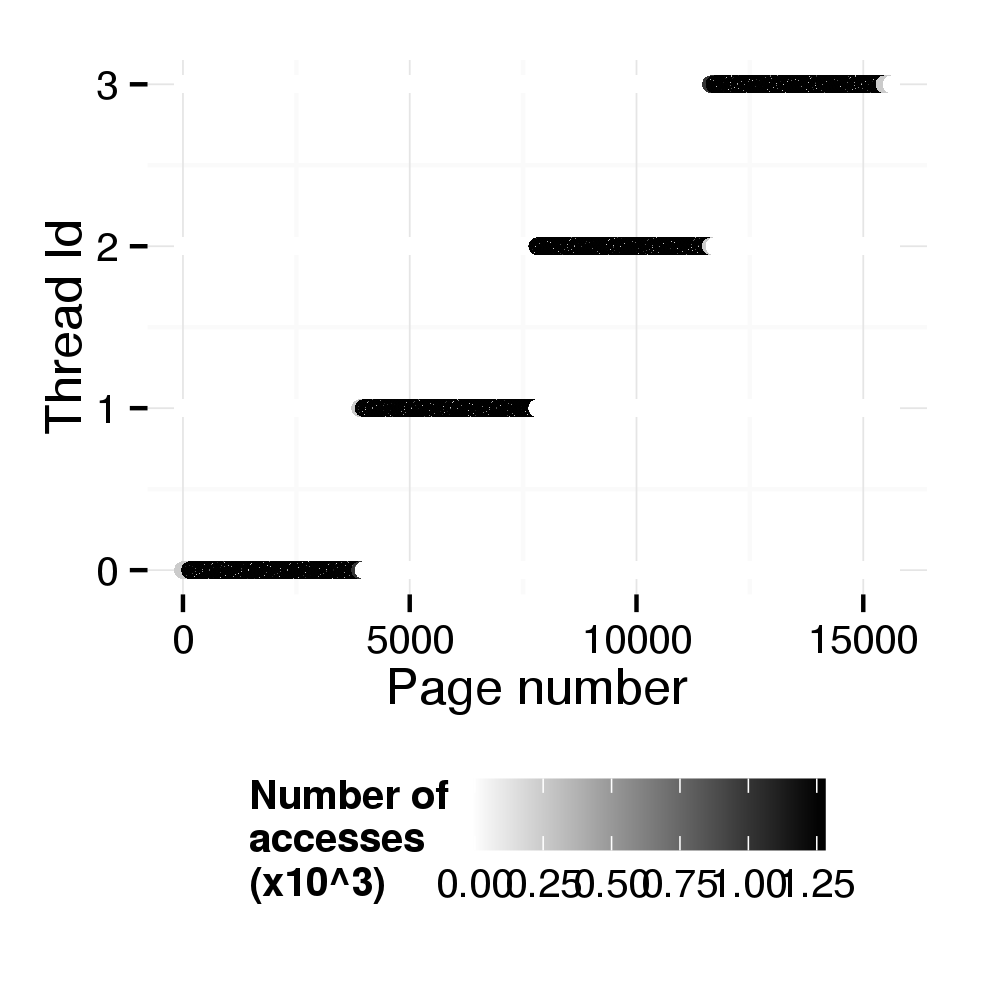
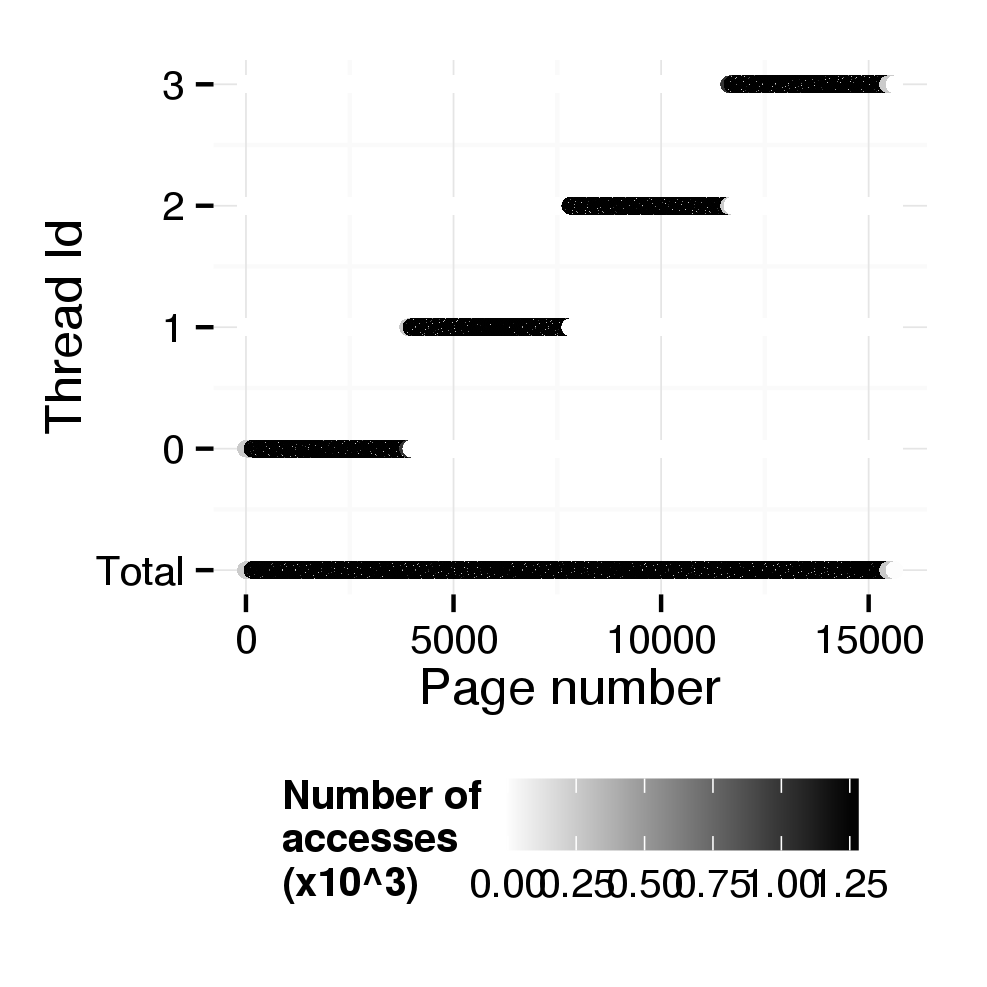
Updated figures

diff --git a/tex/design.tex b/tex/design.tex
@@ -123,10 +123,11 @@ duplicated, such that each NUMA node works on a local copy.
 The second series of plots is the most important one. For each structures, it
 shows the density of access done by each thread over the structure and the
 global distribution. As we can see in Figure~\ref{fig:example_dist}, there is
-one line per thread, the darker is the line the more the thread accessed the
-page. It gives an easy way to understand the data sharing between threads and
-the usage of structures. They can be used to identify inefficient memory usage
-and to determine the best NUMA mapping policy.
+one line per thread and one line for the total number of accesses. The darker
+is the line the more the thread accessed the page. It gives an easy way to
+understand the data sharing between threads and the usage of structures. They
+can be used to identify inefficient memory usage and to determine the best
+NUMA mapping policy.
 
 %\begin{figure}[htb]
 %    \centering
